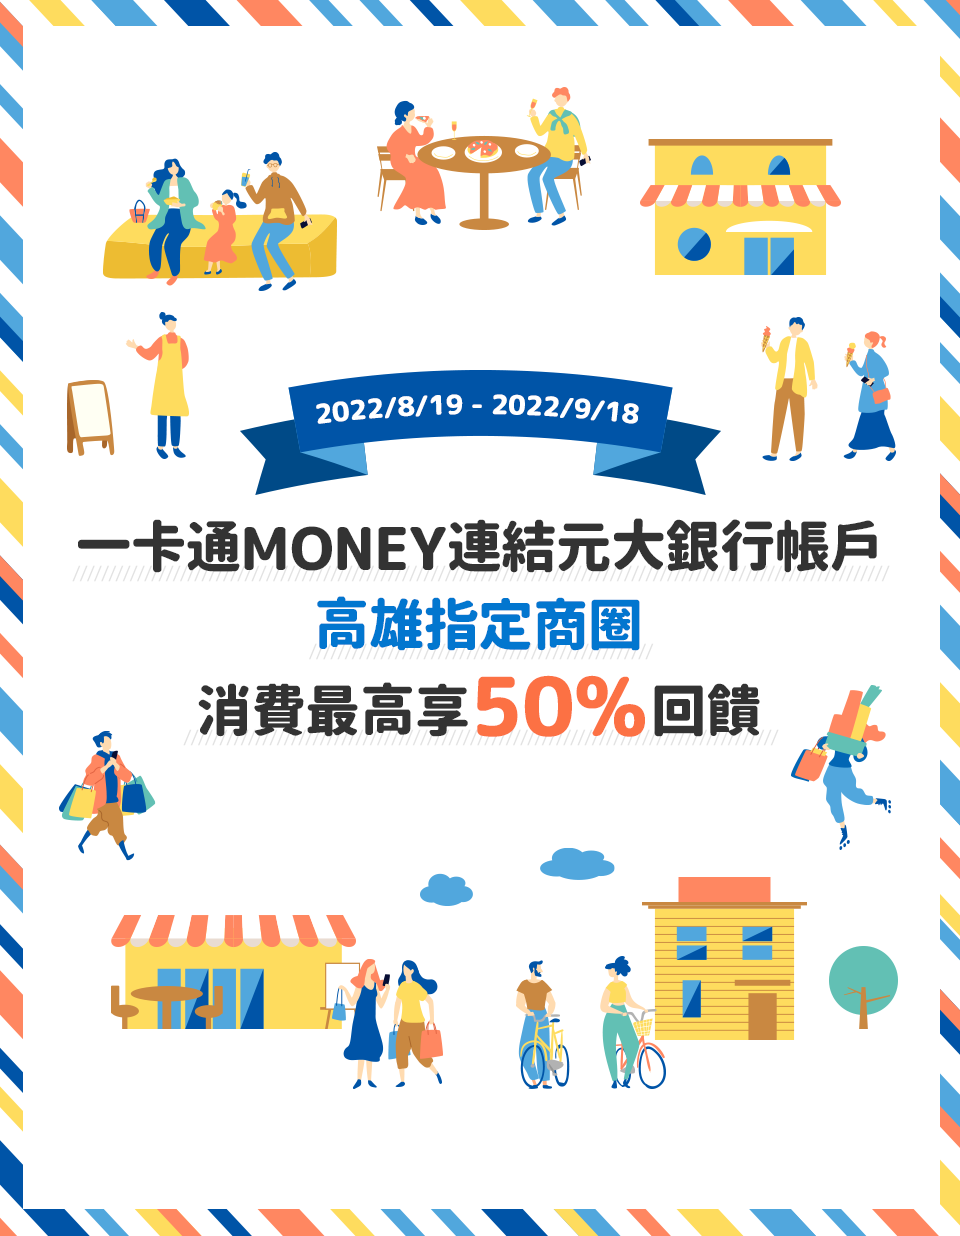
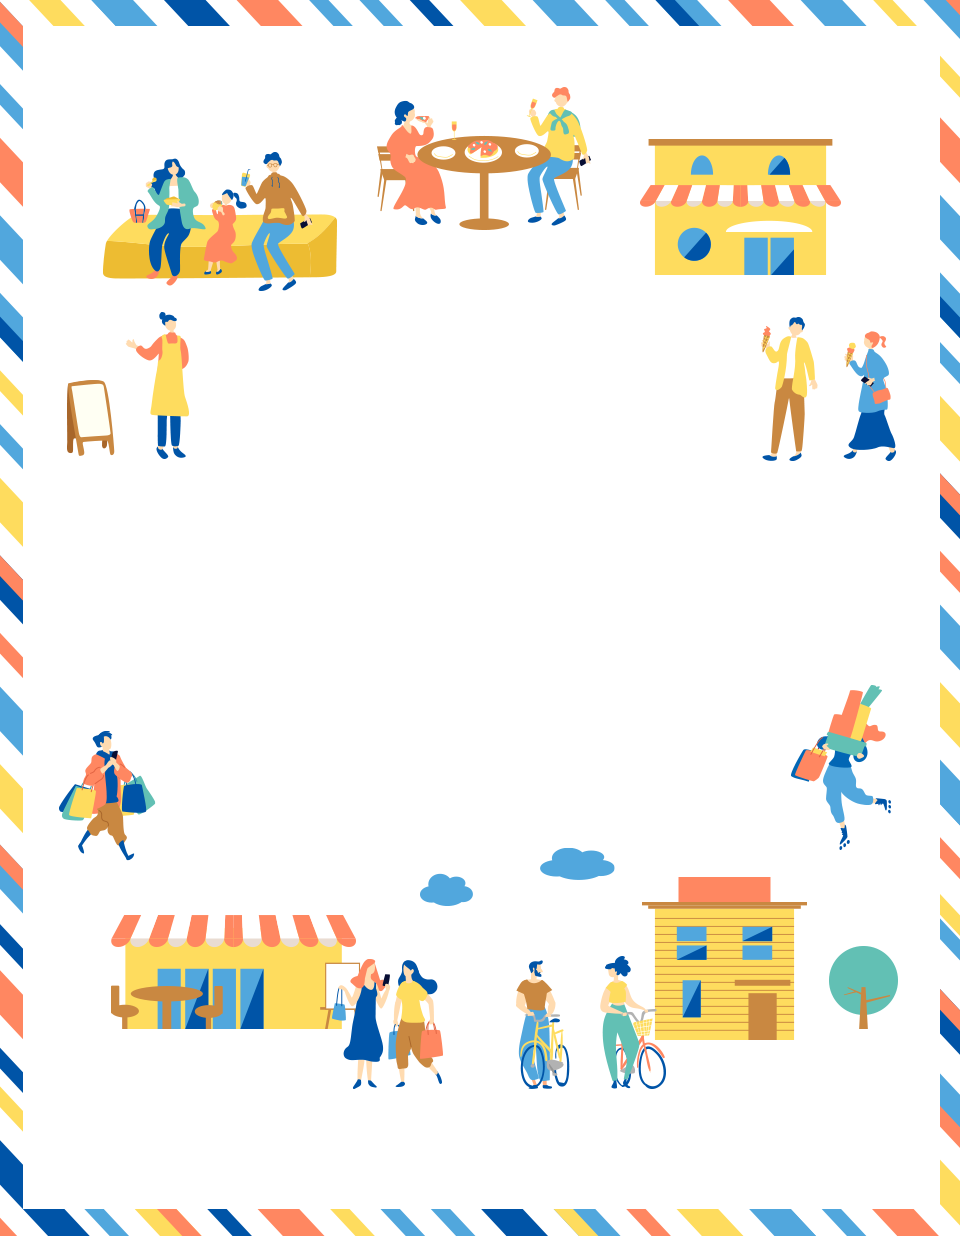
33

Changed region(s): [[0.0625, 0.2767, 0.9375, 0.6149]]

diff --git a/iPASS/assets/css/main.css b/iPASS/assets/css/main.css
@@ -11,7 +11,7 @@ img{margin: 0; padding: 0; display: block;}
 /* kv */
 .kv_container{width: 100%;}
 .kv{width: 100%; max-width: 1920px; margin: 0 auto; height: 0; padding-bottom: 39.0625%; background: url("../images/kv_bg.png") center top no-repeat; background-size: 100% auto; position: relative;}
-/* .kv .kv_tit{width: 36.6%; margin: 0 auto; padding-top: 2%;} */
+.kv .kv_tit{width: 42%; margin: 0 auto; padding-top: 12.5%;}
 .kv .kv_logo{width: 26%; position: absolute; bottom: -6%; left: 37%;}
 .mobOnly{display: none;}
 /* content */
@@ -20,7 +20,7 @@ background-position: center top,center top; background-repeat: no-repeat,repeat;
 .content_container::after{content: ''; display: block; width: 100%; height: 0; padding-bottom: 13.75%; 
 background: url("../images/city.png") center bottom no-repeat; background-size: 100% auto;}
 .content{width: 100%; max-width: 1400px; margin: 0 auto;}
-.event{width: 90%; margin: 0 auto; padding: 6% 0; text-align: center; font-size: 20px; line-height: 1.8;}
+.event{width: 90%; margin: 0 auto; padding: 7% 0; text-align: center; font-size: 20px; line-height: 1.8;}
 .event h2{}
 .event h3{font-weight: bold;}
 .event h3 .pointer{display: inline-block; width: 36px; margin: 0 5px; vertical-align: baseline;}
@@ -30,8 +30,8 @@ background: url("../images/city.png") center bottom no-repeat; background-size: 
 .event .store{font-size: 20px; font-weight: bold; color: #333333;}
 .event .web_block{display: block;}
 .event .tit1,
-.event .tit2{width: 170px; margin: 0 auto; padding: 2% 0;}
-.event .date{width: 300px; margin: 0 auto; padding: 0 0 3%;}
+.event .tit2{width: 180px; margin: 0 auto; padding: 2% 0;}
+.event .date{width: 320px; margin: 0 auto; padding: 0 0 3%;}
 .event .tit3{width: 100%; max-width: 946px; margin: 0 auto; padding: 2% 0;}
 .event .discount{width: 100%; margin: 5% auto; display: flex; flex-direction: row; flex-wrap: nowrap; justify-content: center; align-items: flex-start;}
 .event .discount li{width: 33%; margin: 0 1.5%;}
@@ -117,7 +117,7 @@ background: url("../images/city.png") center bottom no-repeat; background-size: 
 @media screen and (max-width: 960px) {
 /* kv */
 .kv{width: 100%; height: 0; padding-bottom: 128.75%; margin: 0 auto; background: url("../images/kv_bg-m.png") center top no-repeat; background-size: 100% auto;}
-/* .kv .kv_tit{width: 86%; padding-top: 16%;} */
+.kv .kv_tit{width: 86%; padding-top: 38%;}
 .kv .kv_logo{width: 70%; bottom: -4%; left: 15%;}
 .webOnly{display: none;}
 .mobOnly{display: block;}

diff --git a/iPASS/index.html b/iPASS/index.html
@@ -67,10 +67,10 @@
             <!-- 主視覺 -->
             <section class="section kv_container">
                 <div class="kv">
-                    <!-- <div class="kv_tit">
+                    <div class="kv_tit animated flipInX">
                         <img class="webOnly" src="assets/images/kv_tit.png" alt="即日起至2022/9/18使用一卡通MONEY連結元大銀行帳戶，於高雄指定商圈消費最高享50%回饋">
                         <img class="mobOnly" src="assets/images/kv_tit-m.png" alt="即日起至2022/9/18使用一卡通MONEY連結元大銀行帳戶，於高雄指定商圈消費最高享50%回饋">
-                    </div> -->
+                    </div>
                     <div class="kv_logo"><img src="assets/images/kv_logo.png" alt="元大銀行 X 一卡通MONEY"></div>
                 </div>
             </section>
